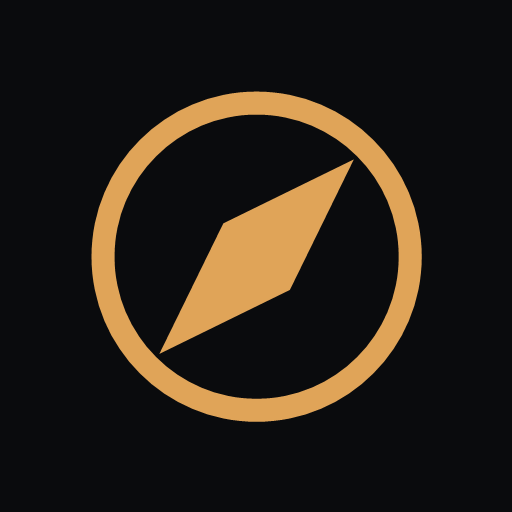
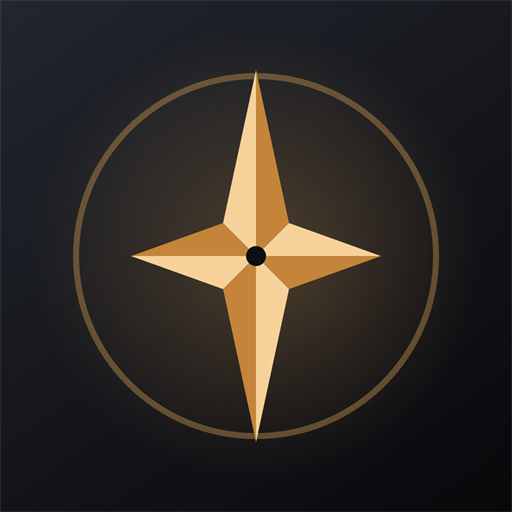
Ajoute la nouvelle icône et les animations

diff --git a/css/style.css b/css/style.css
@@ -369,3 +369,84 @@ svg { display: block; flex: none; }
   opacity: 0; pointer-events: none; transition: opacity .2s, transform .2s; z-index: 60; text-align: center;
 }
 #toast.visible { opacity: 1; transform: translate(-50%, 0); }
+
+/* ============================================================
+   Animations
+   Règles suivies pour que ça reste fluide et sans bug :
+   - on n'anime que transform et opacity (le téléphone les gère sans recalculer la page) ;
+   - les animations d'entrée ne jouent que sous la classe .entree, posée par js/app.js
+     quand on CHANGE d'écran. Cocher une case redessine l'écran sans cette classe,
+     donc rien ne clignote ;
+   - tout est coupé si l'iPhone est réglé sur "Réduire les animations".
+   ============================================================ */
+
+/* --- Entrée d'un écran : les blocs montent l'un après l'autre --- */
+@keyframes apparait { from { opacity: 0; transform: translateY(14px); } }
+.entree > *, .entree .cascade > * { animation: apparait .45s cubic-bezier(.2, .8, .2, 1) backwards; }
+.entree > .cascade { animation: none; }
+.entree > :nth-child(2), .entree .cascade > :nth-child(2) { animation-delay: .04s; }
+.entree > :nth-child(3), .entree .cascade > :nth-child(3) { animation-delay: .08s; }
+.entree > :nth-child(4), .entree .cascade > :nth-child(4) { animation-delay: .12s; }
+.entree > :nth-child(5), .entree .cascade > :nth-child(5) { animation-delay: .16s; }
+.entree > :nth-child(6), .entree .cascade > :nth-child(6) { animation-delay: .20s; }
+.entree > :nth-child(7), .entree .cascade > :nth-child(7) { animation-delay: .24s; }
+.entree > :nth-child(8), .entree .cascade > :nth-child(8) { animation-delay: .28s; }
+.entree > :nth-child(9), .entree .cascade > :nth-child(9) { animation-delay: .32s; }
+.entree > :nth-child(n+10), .entree .cascade > :nth-child(n+10) { animation-delay: .36s; }
+
+/* --- Photos : celle du jour se pose doucement, celle de l'accueil dérive lentement --- */
+@keyframes pose { from { opacity: 0; transform: scale(1.08); } }
+.entree .jour-photo img { animation: pose .9s cubic-bezier(.2, .8, .2, 1); }
+.photo-tete { animation: fondu .4s ease-out; }
+@keyframes derive { from { transform: scale(1); } to { transform: scale(1.1); } }
+.voyage { isolation: isolate; } /* garde les coins arrondis pendant que la photo bouge */
+.voyage-fond { animation: derive 24s ease-in-out infinite alternate; transform-origin: 60% 35%; }
+
+/* --- Retour tactile : ce qu'on touche s'enfonce légèrement --- */
+.voyage, .act, .lieu, .rond, .puce, .jour-btn, .btn, .repere, .onglet svg { transition: transform .16s ease; }
+.voyage:active { transform: scale(.975); }
+.act:active, .lieu:active { transform: scale(.985); }
+.puce:active, .jour-btn:active, .btn:active { transform: scale(.96); }
+.rond:active { transform: scale(.9); }
+.onglet:active svg { transform: scale(.86); }
+
+/* --- Case cochée : rebond + onde (la classe .pop est posée par js/app.js) --- */
+.coche { position: relative; }
+@keyframes rebond { 0% { transform: scale(.6); } 55% { transform: scale(1.2); } 100% { transform: scale(1); } }
+@keyframes onde { from { transform: scale(1); opacity: .7; } to { transform: scale(2.1); opacity: 0; } }
+.coche.pop > span { animation: rebond .4s ease-out; }
+.coche.pop::after {
+  content: ""; position: absolute; top: 50%; left: 50%; width: 26px; height: 26px; margin: -13px 0 0 -13px;
+  border-radius: 50%; border: 2px solid var(--accent); pointer-events: none;
+  animation: onde .5s ease-out forwards;
+}
+
+/* --- Barres de progression : elles glissent vers leur nouvelle valeur --- */
+.barre > i { transition: width .6s cubic-bezier(.2, .8, .2, 1); }
+
+/* --- Onglets : petit trait au-dessus de l'onglet actif, icône qui rebondit --- */
+.onglet { position: relative; }
+.onglet.actif::before {
+  content: ""; position: absolute; top: -6px; left: 50%; width: 22px; height: 3px; margin-left: -11px;
+  border-radius: 0 0 3px 3px; background: var(--accent);
+  animation: trait .3s cubic-bezier(.2, .8, .2, 1);
+}
+@keyframes trait { from { transform: scaleX(0); opacity: 0; } }
+.onglet.actif svg { animation: rebond .4s ease-out; }
+
+/* --- Feuille : elle redescend au lieu de disparaître d'un coup --- */
+.feuille { animation: monte .32s cubic-bezier(.2, .9, .25, 1); }
+.fond.sort { pointer-events: none; animation: fonduSort .2s ease-in forwards; }
+.fond.sort .feuille { animation: descend .2s ease-in forwards; }
+@keyframes fonduSort { to { opacity: 0; } }
+@keyframes descend { to { transform: translateY(60px); } }
+
+/* --- Logo sur l'accueil --- */
+.accueil-tete { display: flex; align-items: flex-end; justify-content: space-between; gap: 12px; }
+.logo { width: 52px; height: 52px; border-radius: 14px; border: 1px solid var(--trait); margin-bottom: 4px; }
+
+/* --- Réglage iPhone "Réduire les animations" : on coupe tout --- */
+@media (prefers-reduced-motion: reduce) {
+  *, *::before, *::after { animation: none !important; transition: none !important; }
+  .fond.sort { opacity: 0; }
+}

diff --git a/js/app.js b/js/app.js
@@ -54,18 +54,34 @@ function lireAdresse() {
   return null;
 }
 
+// Fait glisser les barres de progression de leur ancienne largeur vers la nouvelle.
+// "avant" = les largeurs relevées avant de redessiner (null = partir de zéro).
+function animerBarres(zone, avant) {
+  const barres = [...zone.querySelectorAll('.barre > i')];
+  if (avant && avant.length !== barres.length) return; // l'écran a changé de forme : pas d'animation
+  for (const [n, barre] of barres.entries()) {
+    const fin = barre.style.width;
+    barre.style.width = avant ? avant[n] : '0%';
+    barre.offsetWidth; // oblige le navigateur à prendre en compte la largeur de départ
+    barre.style.width = fin;
+  }
+}
+
 // Redessine tout l'écran. Appelé à chaque changement d'adresse.
-function afficher() {
-  fermerFeuille();
+// anime = true quand on arrive sur l'écran : les blocs entrent en cascade (classe .entree).
+function afficher(anime = false) {
+  fermerFeuille(true);
   const adresse = lireAdresse();
 
   if (!adresse) {
     vueCourante = accueil;
-    ctx = { index, voyages, store, rendre: afficher };
+    ctx = { index, voyages, store, rendre: () => afficher() };
     document.documentElement.style.removeProperty('--accent');
     barre.hidden = true;
+    racine.classList.toggle('entree', anime);
     racine.innerHTML = accueil.rendre(ctx);
     accueil.monter?.(racine, ctx);
+    if (anime) animerBarres(racine, null);
     return;
   }
 
@@ -80,6 +96,7 @@ function afficher() {
   };
   document.documentElement.style.setProperty('--accent', voyage.accent || '#E0A458');
 
+  racine.classList.remove('entree');
   racine.innerHTML = `
     <header class="entete">
       <a class="rond" href="#/" aria-label="Mes carnets">${icon('chevron-left')}</a>
@@ -96,17 +113,21 @@ function afficher() {
       ${icon(icone, 24)}<span>${nom}</span>
     </a>`).join('');
 
-  rendreVue();
+  rendreVue(anime);
   majTauxAuto(voyage, ctx.etat);
 }
 
 // Redessine seulement le contenu de l'onglet (après une case cochée par exemple).
 // La position de défilement est conservée.
-function rendreVue() {
+// anime = true seulement quand le contenu change vraiment (autre onglet, autre jour, autre filtre).
+function rendreVue(anime = false) {
   const zone = document.getElementById('vue');
   if (!zone) return afficher();
+  const avant = anime ? null : [...zone.querySelectorAll('.barre > i')].map((b) => b.style.width);
+  zone.classList.toggle('entree', anime === true);
   zone.innerHTML = vueCourante.rendre(ctx);
   vueCourante.monter?.(zone, ctx);
+  animerBarres(zone, avant);
 }
 
 // Met le taux à jour en arrière-plan quand il y a du réseau.
@@ -138,11 +159,23 @@ document.addEventListener('click', (e) => {
   const el = e.target.closest('[data-action]');
   if (!el) return;
   const action = vueCourante.actions?.[el.dataset.action] ?? actionsCommunes[el.dataset.action];
-  if (action) action(el, ctx, e);
+  if (!action) return;
+  action(el, ctx, e);
+
+  // Case cochée : l'écran vient d'être redessiné, on retrouve la nouvelle case
+  // (même data-cle ou data-id) pour lui donner l'animation de rebond.
+  if (el.classList.contains('coche')) {
+    const nouvelle = [...document.querySelectorAll('.coche')]
+      .find((c) => c.dataset.cle === el.dataset.cle && c.dataset.id === el.dataset.id);
+    if (nouvelle?.getAttribute('aria-pressed') === 'true') nouvelle.classList.add('pop');
+  }
 });
 
+// Sur iPhone, l'effet "enfoncé" du CSS (:active) ne marche que si la page écoute le toucher.
+document.addEventListener('touchstart', () => {}, { passive: true });
+
 window.addEventListener('hashchange', () => {
-  afficher();
+  afficher(true);
   window.scrollTo(0, 0);
 });
 
@@ -154,7 +187,7 @@ if ('serviceWorker' in navigator && (!enLocal || location.search.includes('sw=1'
 }
 
 charger()
-  .then(afficher)
+  .then(() => afficher(true))
   .catch((erreur) => {
     console.error(erreur);
     racine.innerHTML = '<p class="chargement">Impossible de charger les carnets. Vérifie ta connexion puis rouvre l’appli.</p>';

diff --git a/js/feuille.js b/js/feuille.js
@@ -6,7 +6,10 @@ import { esc, lireNombre } from './util.js';
 
 const racine = () => document.getElementById('feuille');
 
+let fermeture; // minuterie de l'animation de fermeture
+
 export function ouvrirFeuille(html) {
+  clearTimeout(fermeture); // une fermeture en cours ne doit pas effacer la nouvelle feuille
   racine().innerHTML = `
     <div class="fond" data-action="fermer-fond">
       <div class="feuille" role="dialog" aria-modal="true">
@@ -17,9 +20,19 @@ export function ouvrirFeuille(html) {
   document.body.classList.add('bloque'); // empêche la page de défiler derrière
 }
 
-export function fermerFeuille() {
-  racine().innerHTML = '';
+// Ferme la feuille. Par défaut elle redescend (classe .sort, 0,2 s) puis on la
+// retire de la page. Avec immediat = true (changement d'écran) on la retire tout de suite.
+export function fermerFeuille(immediat = false) {
   document.body.classList.remove('bloque');
+  clearTimeout(fermeture);
+  const fond = racine().querySelector('.fond');
+  if (!fond) return;
+  if (immediat) {
+    racine().innerHTML = '';
+    return;
+  }
+  fond.classList.add('sort');
+  fermeture = setTimeout(() => { racine().innerHTML = ''; }, 200);
 }
 
 let minuterie;

diff --git a/js/views/lieux.js b/js/views/lieux.js
@@ -43,7 +43,7 @@ export function rendre(ctx) {
 
   return `
     <div class="puces">${puces}</div>
-    <div style="margin-top:14px">${liste}</div>
+    <div class="cascade" style="margin-top:14px">${liste}</div>
     <p class="doux petit" style="margin:16px 2px 0">
       Infos vérifiées le ${new Intl.DateTimeFormat('fr-FR', { day: 'numeric', month: 'long', year: 'numeric' }).format(new Date(voyage.majLe))}.
       Appuie sur un lieu pour voir le prix, les horaires et la source.
@@ -53,6 +53,6 @@ export function rendre(ctx) {
 export const actions = {
   filtrer(el, ctx) {
     ctx.ui.categorie = el.dataset.cat;
-    ctx.rendre();
+    ctx.rendre(true);
   },
 };

diff --git a/js/views/accueil.js b/js/views/accueil.js
@@ -49,8 +49,11 @@ export function rendre(ctx) {
 
   return `
     <div class="accueil-tete">
-      <div class="sur-titre">Mes voyages</div>
-      <h1>Carnets</h1>
+      <div>
+        <div class="sur-titre">Mes voyages</div>
+        <h1>Carnets</h1>
+      </div>
+      <img class="logo" src="icons/icon-192.png" alt="">
     </div>
     ${cartes || '<p class="vide">Aucun carnet pour l’instant.</p>'}
     <div class="actions-accueil">

diff --git a/sw.js b/sw.js
@@ -8,7 +8,7 @@
 // Conséquence : après un déploiement, il faut ouvrir l'appli deux fois pour voir la nouveauté.
 //
 // Change ce numéro quand la liste SOCLE ci-dessous change.
-const CACHE = 'carnets-v2';
+const CACHE = 'carnets-v3';
 
 const SOCLE = [
   './',

diff --git a/js/views/guide.js b/js/views/guide.js
@@ -177,7 +177,7 @@ if ('speechSynthesis' in window) speechSynthesis.getVoices();
 export const actions = {
   section(el, ctx) {
     ctx.ui.guide = el.dataset.section;
-    ctx.rendre();
+    ctx.rendre(true);
     window.scrollTo(0, 0);
   },
   ecouter(el, ctx) {

diff --git a/js/views/jours.js b/js/views/jours.js
@@ -148,7 +148,7 @@ export function rendre(ctx) {
 export const actions = {
   jour(el, ctx) {
     ctx.ui.jour = el.dataset.date;
-    ctx.rendre();
+    ctx.rendre(true); // true = avec l'animation d'entrée
     window.scrollTo(0, 0);
   },
   cocher(el, ctx) {

diff --git a/CLAUDE.md b/CLAUDE.md
@@ -8,6 +8,7 @@ Appli web perso (PWA) qui affiche des carnets de voyage sur téléphone. Le prop
 - **Le contenu est séparé du code.** Un fichier `trips/<id>.json` par voyage, listé dans `trips/index.json`. Ajouter un voyage ne demande jamais de toucher au JavaScript.
 - **Les données perso restent sur le téléphone** (localStorage, clé `carnets.v1`, voir `js/store.js`). Ne jamais changer le format des clés de cases cochées (`act:<id>`, `plat:<id>`, `avant:<id>`, `valise:<id>`) ni renommer un `id` déjà déployé : ça effacerait les coches de l'utilisateur.
 - **Design** : sombre et sobre, pensé pour 390 px de large (iPhone 13), zones tactiles d'au moins 44 px, icônes SVG au trait (`js/icons.js`), pas d'emoji.
+- **Animations** (fin de `css/style.css`) : seulement `transform` et `opacity`. Les animations d'entrée vivent sous la classe `.entree`, posée par `js/app.js` quand on change d'écran (`ctx.rendre(true)`), jamais quand on coche une case. Tout est coupé par `prefers-reduced-motion`.
 
 ## Arborescence
 
@@ -24,6 +25,7 @@ js/views/*.js           un fichier par écran : rendre(ctx), monter(racine, ctx)
 js/validate.js          validateur du schéma
 tools/validate.html     page qui valide tous les voyages
 tools/serve.ps1         serveur local sans installation
+tools/icone.ps1         redessine l'icône de l'appli (icons/)
 sw.js                   service worker (hors-ligne)
 trips/                  les voyages
 ```
